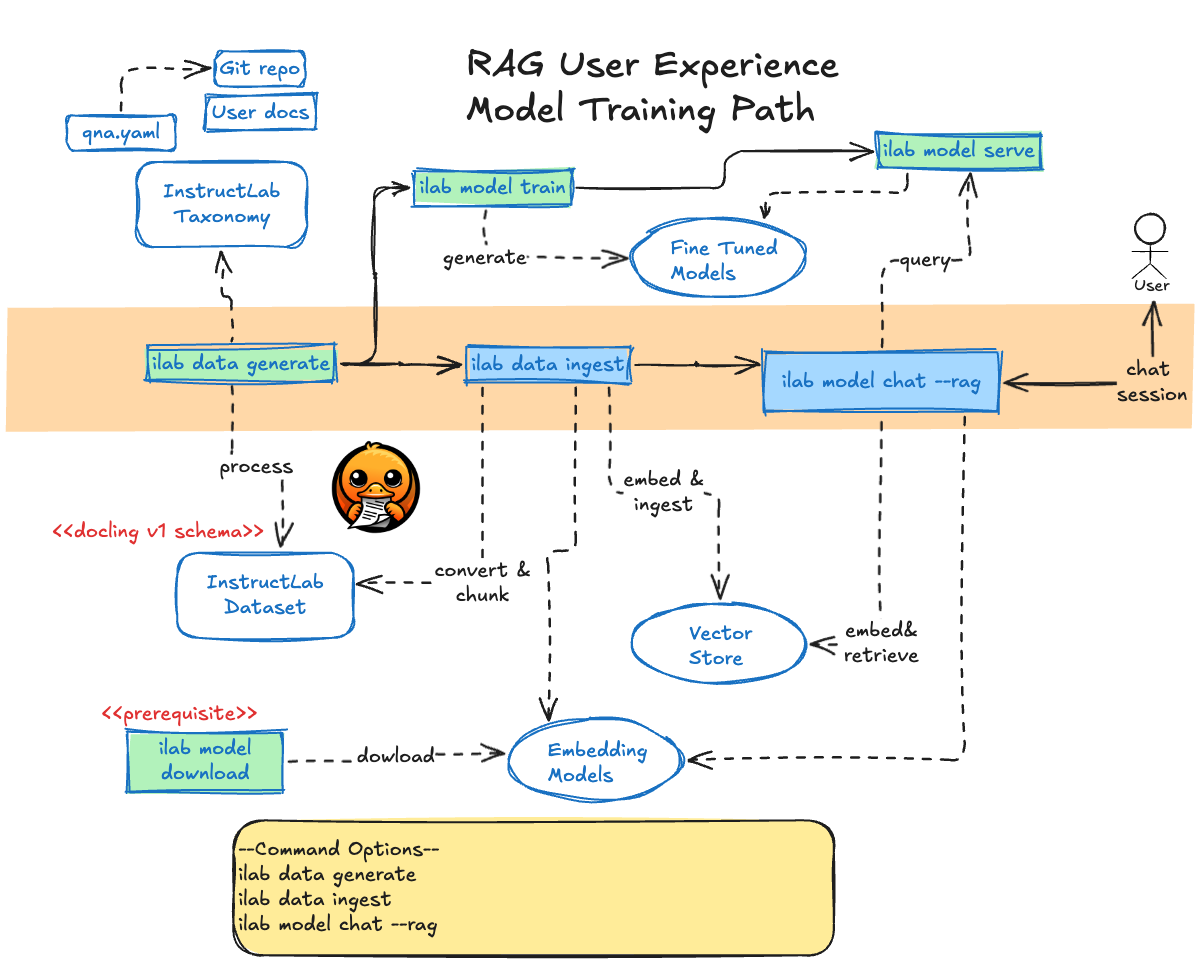
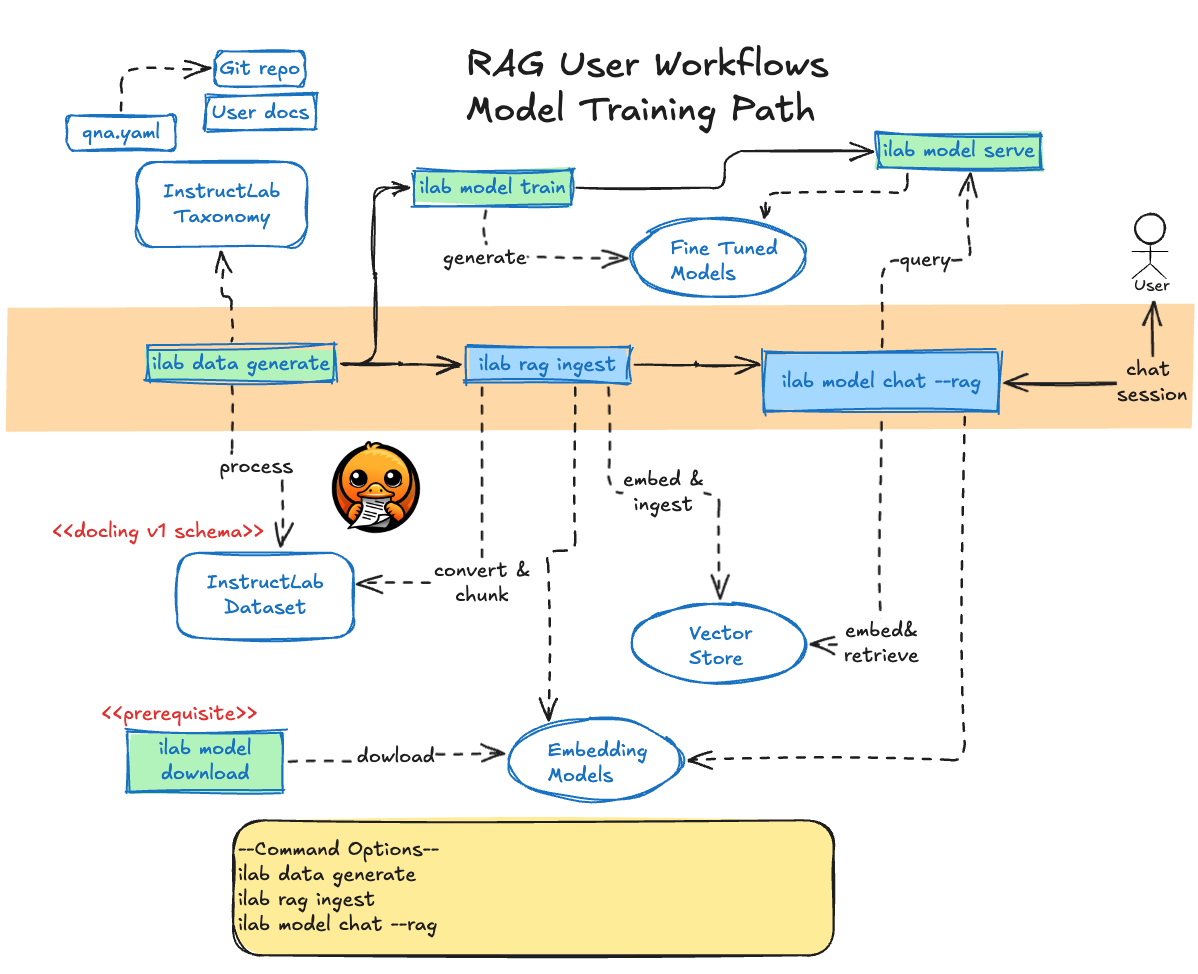
updated CLI commands in PNGs

diff --git a/docs/rag/ilab-rag-retrieval.md b/docs/rag/ilab-rag-retrieval.md
@@ -15,6 +15,7 @@ Not addressed in this document:
 
 * Using this [shareable link][shareable-excalidraw]
 * Importing the scene from the exported [DSL](./images/rag-ingestion-and-chat.excalidraw)
+* Importing the provided images in Excalidraw
 
 ## 1. Introduction
 
@@ -426,7 +427,7 @@ ilab serve --rag-embeddings --image-name=docker.io/user/my_rag_artifacts:1.0 --p
 ilab model chat --rag --retriever-type api --retriever-uri http://localhost:8123
 ```
 
-[shareable-excalidraw]: https://excalidraw.com/#json=ZiTMvxn67gep679hqJrpO,VBDADxrmGht7zJSWKQCjug
+[shareable-excalidraw]: https://excalidraw.com/#json=UNReLpF8DSFoe-zg4w7I8,rZjZB4ZQnpmkM084B4qjkw
 [ilab-knowledge]: https://github.com/instructlab/taxonomy?tab=readme-ov-file#getting-started-with-knowledge-contributions
 [sdg-diff-strategy]: https://github.com/instructlab/sdg/blob/main/src/instructlab/sdg/utils/taxonomy.py
 [chat_template]: https://github.com/instructlab/instructlab/blob/0a773f05f8f57285930df101575241c649f591ce/src/instructlab/configuration.py#L244
